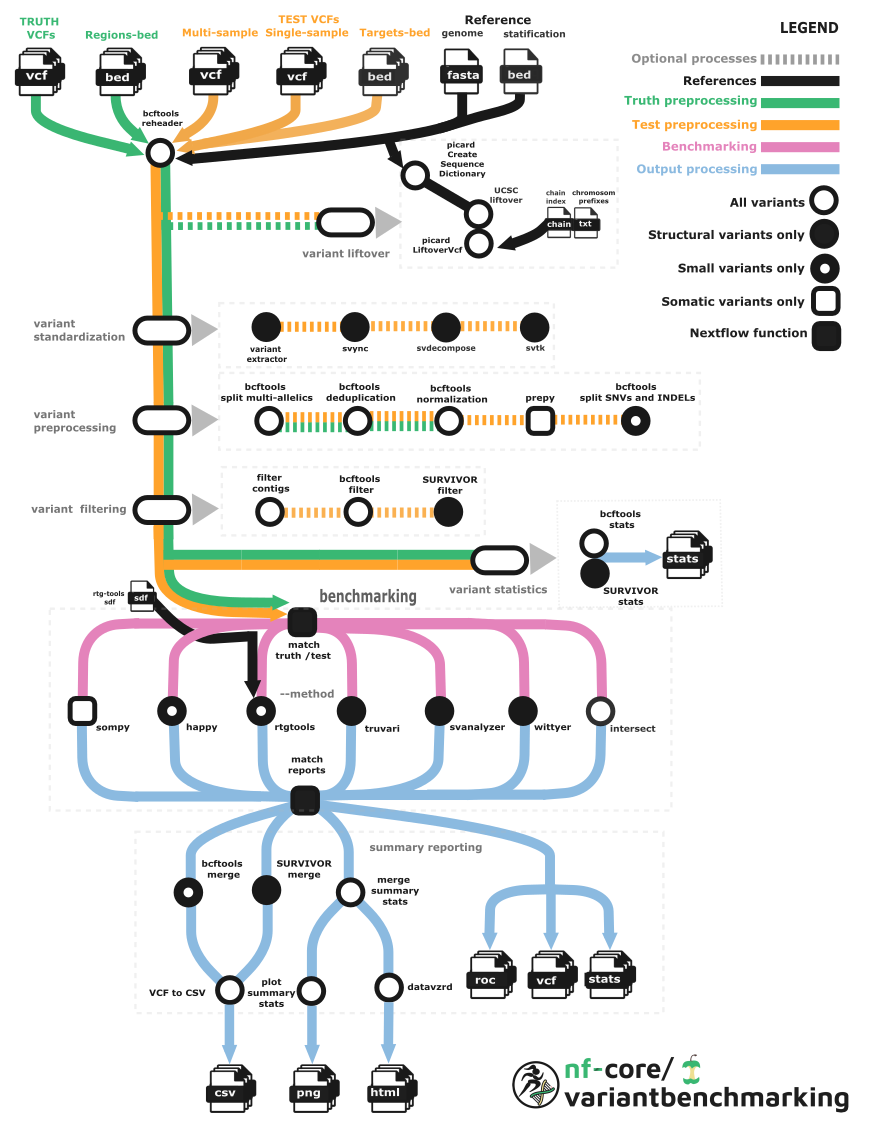
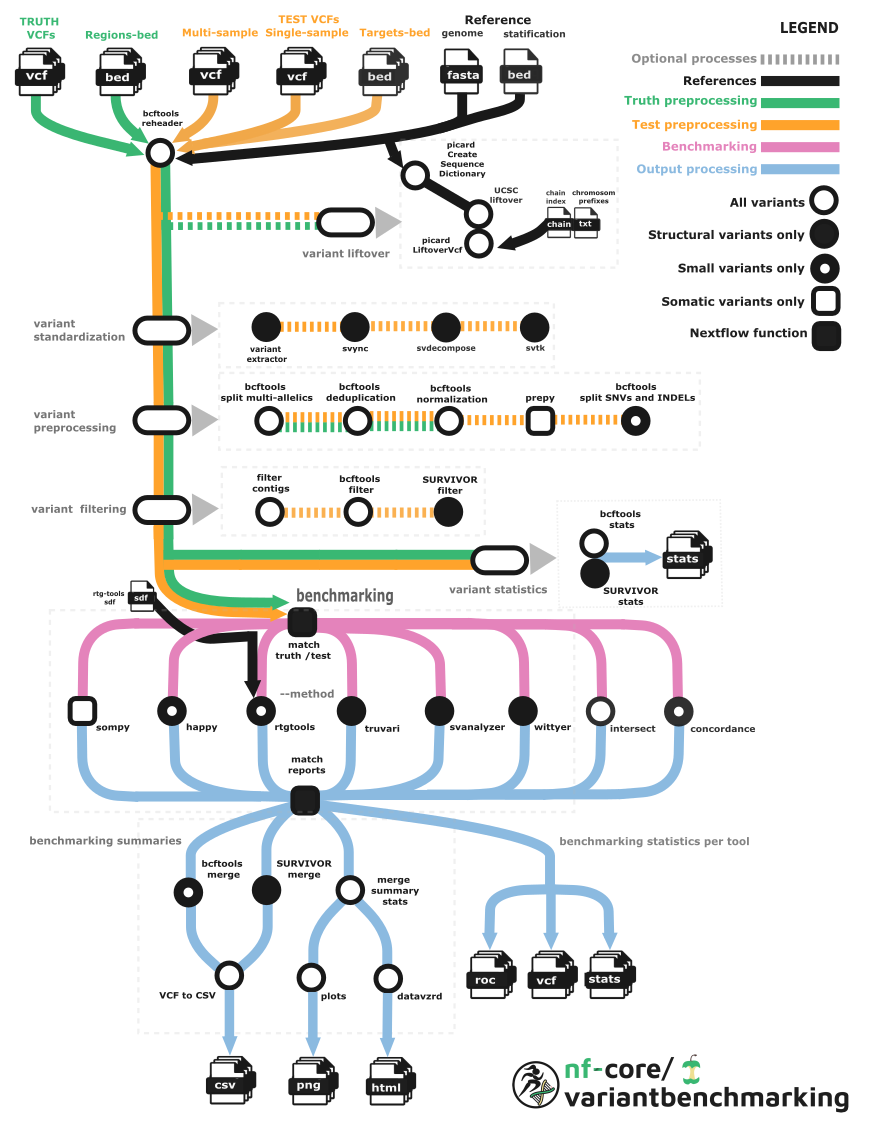
update map and add changelog

diff --git a/CHANGELOG.md b/CHANGELOG.md
@@ -15,6 +15,7 @@ and this project adheres to [Semantic Versioning](https://semver.org/spec/v2.0.0
 - UPSET plot for TP/FP/FN numbers [#223](https://github.com/nf-core/variantbenchmarking/pull/223)
 - nf-co2footplot plugin is added [#224](https://github.com/nf-core/variantbenchmarking/pull/224)
 - Template update for nf-core/tools v3.4.1 [#235](https://github.com/nf-core/variantbenchmarking/pull/235)
+- Adding concordance analysis (pairwise comparison of test VCFs) can be used without peforming benchmarking with truth VCF [#237](https://github.com/nf-core/variantbenchmarking/pull/237)
 
 ### `Fixed`
 
